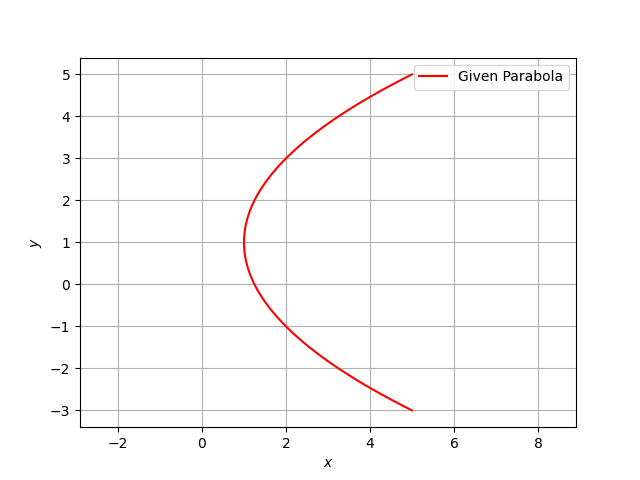
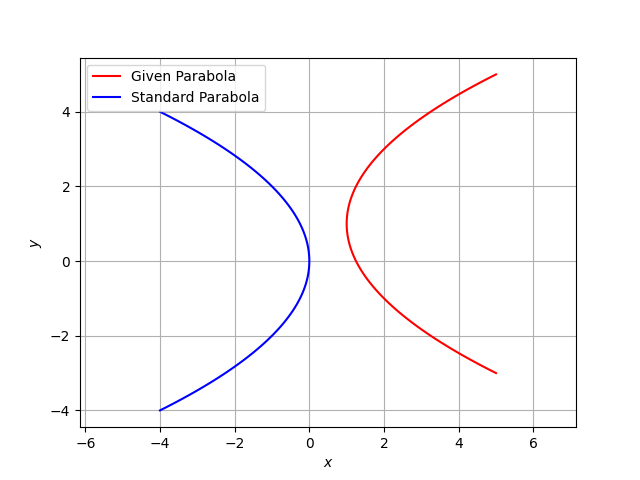
used affine transformation to plot standard parabola

diff --git a/assignment4/codes/plot.py b/assignment4/codes/plot.py
@@ -1,21 +1,3 @@
-"""
-import numpy as np
-import matplotlib.pyplot as plt
-fig = plt.plot()
-
-y, x = np.ogrid[-3:5:1000j, -4:8:1000j]
-plt.contour(
-    x.ravel(), y.ravel(), y**2 - 4*x -2*y + 5, [0])
-plt.grid()
-plt.xlabel("x")
-plt.ylabel("y")
-plt.savefig("../figures/figure.png")
-
-def parab_gen(y,a):
-	x = y**2/a
-	return x
-"""
-
 import numpy as np
 import matplotlib.pyplot as plt
 from numpy import linalg as LA
@@ -56,6 +38,7 @@ xStandardparab = np.vstack((x,y))
 xActualparab = P@xStandardparab + c[:,np.newaxis]
 
 plt.plot(xActualparab[0,:],xActualparab[1,:],label='Given Parabola',color='r')
+plt.plot(xStandardparab[0,:],xStandardparab[1,:],label='Standard Parabola',color='b')
 
 plt.xlabel('$x$')
 plt.ylabel('$y$')
